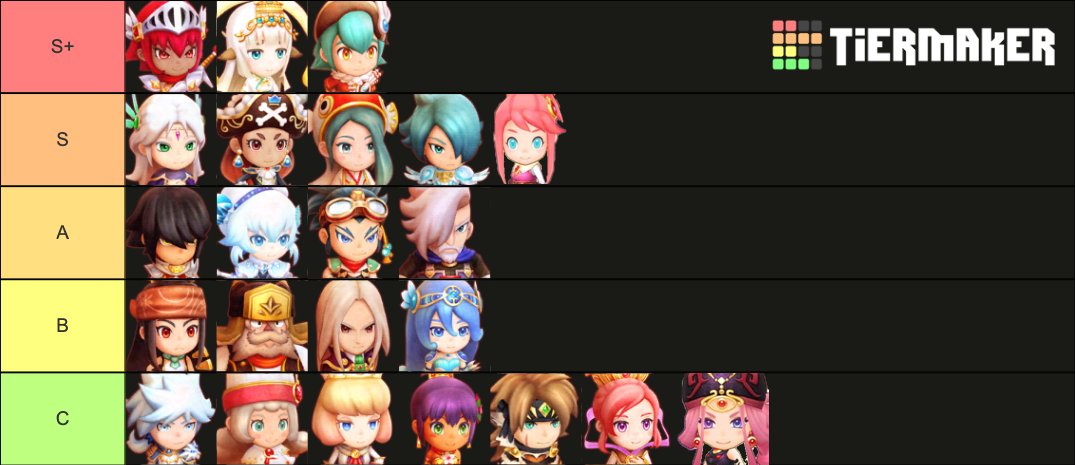
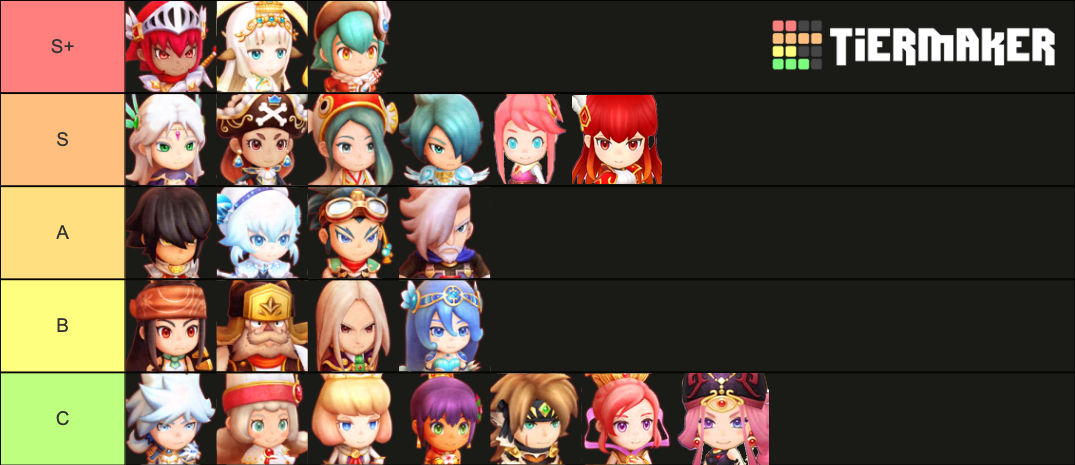
Updated tier list

Changed region(s): [[0.5219, 0.1806, 0.614, 0.4215]]

diff --git a/src/posts/Fantasy-Life-Online-Tier-List.md b/src/posts/Fantasy-Life-Online-Tier-List.md
@@ -2,17 +2,19 @@
 layout: post.njk
 title: Fantasy Life Online Tier List
 description: The best of the best in FLO
-date: 2022-02-16
+date: 2022-02-18
 category: fantasy-life-online
 featuredImage: /assets/images/fantasy-life-online-tier-list/fantasylifetier.png
 ---
 
 Fantasy Life Online has been out for a few months now, with several new 5-Star characters joining the roster at an accelerated rate compared to the Japanese run of the game. The following tier list only looks at 5-Star characters, as there is really no need to compare characters that are 4-Star or lower.
 
+***Updated February 18, 2022: Added Luby to S-Tier***
+
 | Tier | Characters                                           |
 |------|------------------------------------------------------|
 | S+   | Hawke, Haku, Lucio                                   |
-| S    | Olivia, Amane, Slone, Teruha, Jake, Laura            |
+| S    | Olivia, Amane, Slone, Teruha, Jake, Laura, Luby      |
 | A    | Bray, Grantz, Glen, Snow                             |
 | B    | Belhart, Kennedy, Klaus, Aqua                        |
 | C    | Josette, Sophie, Cliff, Kiba, Kirkner, Demiel, Amane |
